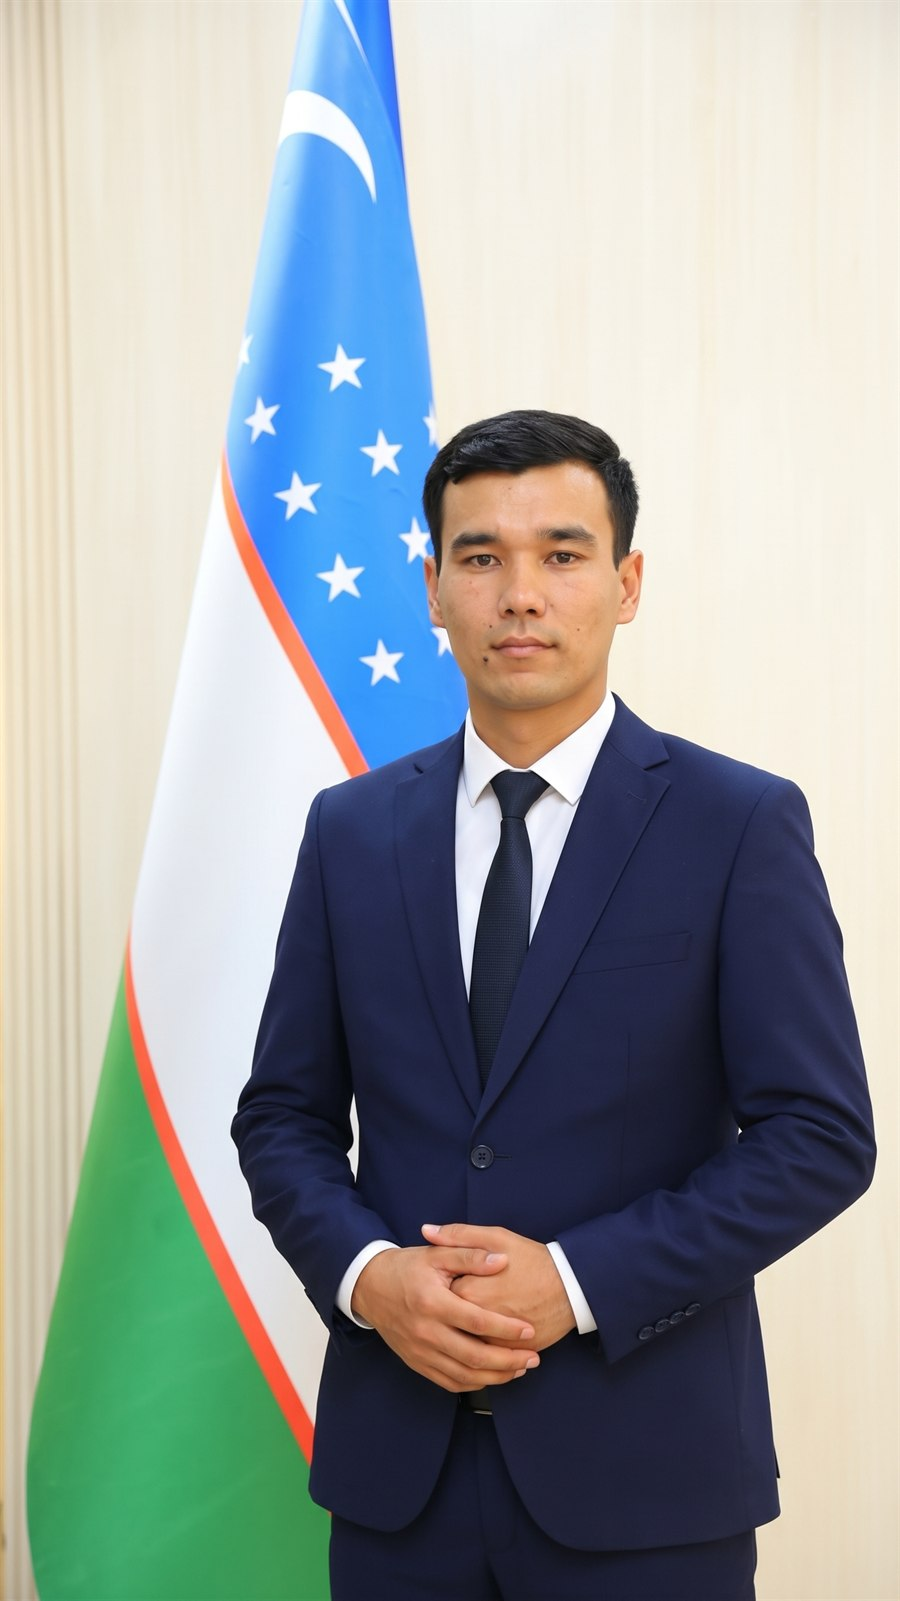
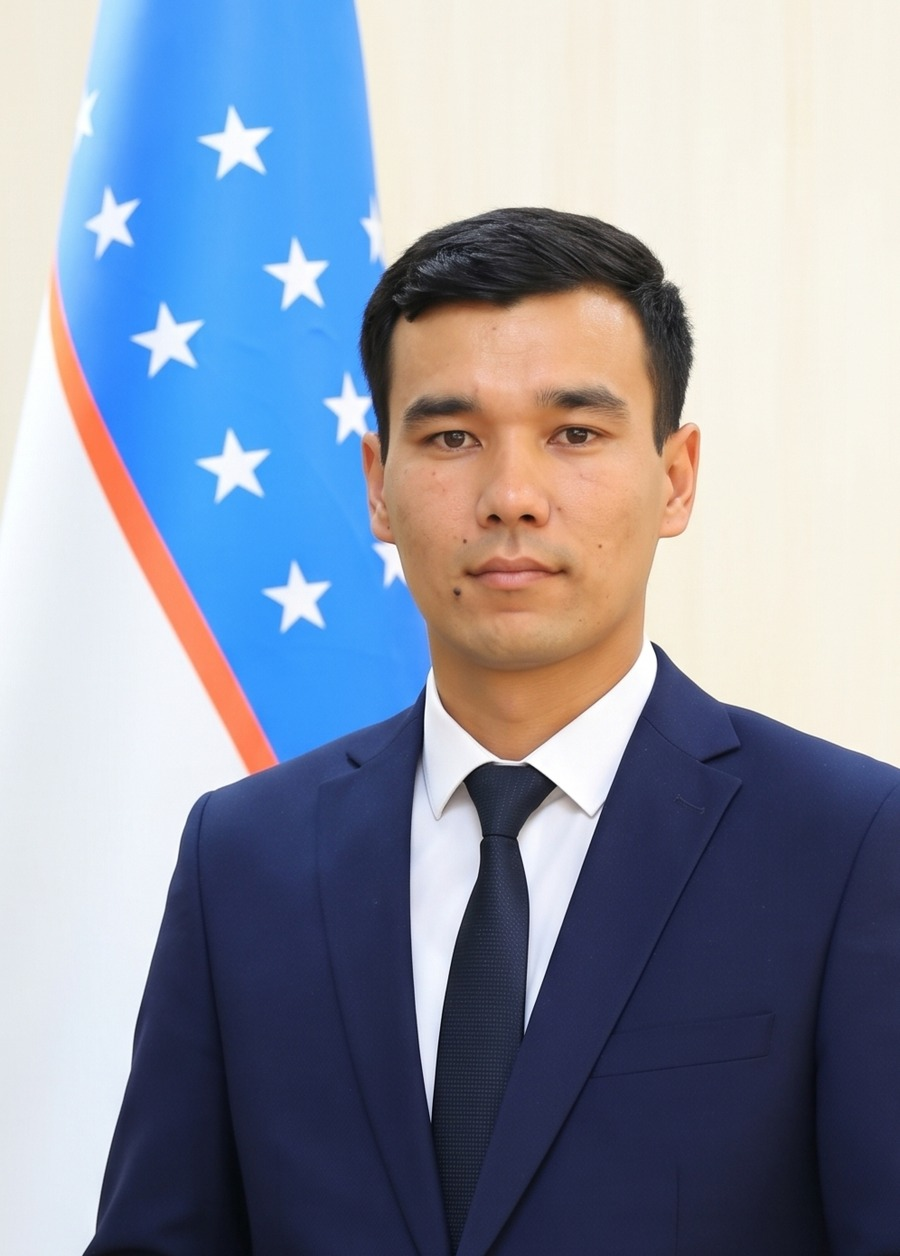
feat(team): add Fizika-matematika coordinator, zoom Akbar photo, center last row cards, and update Telegram channel handle to @UrDU_YI

diff --git a/src/components/sections/TeamSection.jsx b/src/components/sections/TeamSection.jsx
@@ -107,7 +107,7 @@ function LeaderFeaturedCard({ member }) {
                 <div className="min-w-0">
                   <span className="text-[10px] text-zinc-400 font-semibold block">Telegram</span>
                   <span className="font-semibold truncate block">
-                    {member.telegramHandle || '@UrDU_Yoshlari_BT'}
+                    {member.telegramHandle || '@UrDU_YI'}
                   </span>
                 </div>
               </a>
@@ -155,21 +155,42 @@ function LeaderFeaturedCard({ member }) {
   )
 }
 
-function getLoneCardClass(index, total) {
-  if (index !== total - 1) return ''
-  const isAloneLg = total % 3 === 1
-  const isAloneMd = total % 2 === 1
+function getCardPlacementClass(index, total) {
+  const isLast = index === total - 1
+  const isSecondToLast = index === total - 2
+  const remainder3 = total % 3
+  const remainder2 = total % 2
 
-  if (isAloneLg && isAloneMd) {
-    return 'md:col-span-2 md:max-w-md md:w-full md:mx-auto lg:col-span-1 lg:col-start-2 lg:max-w-none lg:mx-0'
+  // Default for 3-column desktop layout (6-column grid where each item spans 2)
+  let classes = 'col-span-1 md:col-span-1 lg:col-span-2'
+
+  // When only 1 card is in the last row on lg screens
+  if (remainder3 === 1 && isLast) {
+    if (remainder2 === 1) {
+      return 'col-span-1 md:col-span-2 md:max-w-md md:w-full md:mx-auto lg:col-start-3 lg:col-span-2 lg:max-w-none lg:mx-0'
+    }
+    return 'col-span-1 md:col-span-1 lg:col-start-3 lg:col-span-2'
   }
-  if (isAloneLg) {
-    return 'lg:col-start-2'
+
+  // When 2 cards are in the last row on lg screens (center both cards side-by-side!)
+  if (remainder3 === 2) {
+    if (isSecondToLast) {
+      return 'col-span-1 md:col-span-1 lg:col-start-2 lg:col-span-2'
+    }
+    if (isLast) {
+      if (remainder2 === 1) {
+        return 'col-span-1 md:col-span-2 md:max-w-md md:w-full md:mx-auto lg:col-start-4 lg:col-span-2 lg:max-w-none lg:mx-0'
+      }
+      return 'col-span-1 md:col-span-1 lg:col-start-4 lg:col-span-2'
+    }
   }
-  if (isAloneMd) {
-    return 'md:col-span-2 md:max-w-md md:w-full md:mx-auto lg:col-span-1 lg:max-w-none lg:mx-0'
+
+  // If last row has full 3 cards on lg, but is alone on md
+  if (remainder2 === 1 && isLast) {
+    return 'col-span-1 md:col-span-2 md:max-w-md md:w-full md:mx-auto lg:col-span-2 lg:max-w-none lg:mx-0'
   }
-  return ''
+
+  return classes
 }
 
 function MemberCard({ member, className = '' }) {
@@ -251,7 +272,7 @@ function MemberCard({ member, className = '' }) {
                 <span className="font-semibold">Telegram:</span>
               </span>
               <span className="text-zinc-500 group-hover:text-zinc-800 dark:text-zinc-400 dark:group-hover:text-zinc-200">
-                {member.telegramHandle || '@UrDU_Yoshlari_BT'}
+                {member.telegramHandle || '@UrDU_YI'}
               </span>
             </a>
           ) : null}
@@ -401,12 +422,12 @@ export default function TeamSection() {
               </div>
             </div>
 
-            <div className="grid grid-cols-1 gap-8 md:grid-cols-2 lg:grid-cols-3">
+            <div className="grid grid-cols-1 gap-8 md:grid-cols-2 lg:grid-cols-6">
               {koordinatorMembers.map((member, index) => (
                 <MemberCard
                   key={member.id}
                   member={member}
-                  className={getLoneCardClass(index, koordinatorMembers.length)}
+                  className={getCardPlacementClass(index, koordinatorMembers.length)}
                 />
               ))}
             </div>
@@ -430,12 +451,12 @@ export default function TeamSection() {
               </div>
             </div>
 
-            <div className="grid grid-cols-1 gap-8 md:grid-cols-2 lg:grid-cols-3">
+            <div className="grid grid-cols-1 gap-8 md:grid-cols-2 lg:grid-cols-6">
               {fakultetKoordinatorMembers.map((member, index) => (
                 <MemberCard
                   key={member.id}
                   member={member}
-                  className={getLoneCardClass(index, fakultetKoordinatorMembers.length)}
+                  className={getCardPlacementClass(index, fakultetKoordinatorMembers.length)}
                 />
               ))}
             </div>

diff --git a/src/data/siteData.js b/src/data/siteData.js
@@ -33,8 +33,8 @@ export const profile = {
   phoneHref: 'tel:+998622246700',
   instagramHandle: '@urdumatbuotxizmati',
   instagramUrl: 'https://instagram.com/urdumatbuotxizmati',
-  telegramHandle: '@UrDU_Yoshlari_BT',
-  telegramChannel: 'https://t.me/UrDU_Yoshlari_BT',
+  telegramHandle: '@UrDU_YI',
+  telegramChannel: 'https://t.me/UrDU_YI',
   telegramBot: 'https://t.me/urdu_ittifoq_bot',
   telegramBotHandle: '@urdu_ittifoq_bot',
   website: 'https://ittifoq.ursu.uz',
@@ -231,6 +231,22 @@ export const fakultetKoordinatorMembers = [
     phone: '+998958581806',
     phoneLabel: '+998 (95) 858-18-06',
     skills: ["Kitobxonlik", "Adabiyot", "Ijodiy loyihalar"],
+  },
+  {
+    id: 'fizika-matematika-fakultet',
+    name: 'Saparboyev Javohir',
+    role: "Fizika-matematika fakulteti koordinatori",
+    category: 'fakultet',
+    faculty: "Fizika-matematika fakulteti",
+    badge: 'Fakultet Koordinatori',
+    bio: "Fakultet talaba-yoshlarining fundamental fanlar, fizika, matematika, IT-modellashtirish hamda ilmiy-innovatsion tashabbuslarini muvofiqlashtirish va qo‘llab-quvvatlash.",
+    avatar: '/assets/team/javohir_portrait.jpg',
+    email: 'javoxirsaparboyev730@gmail.com',
+    telegram: 'https://t.me/javohir_saparboyev',
+    telegramHandle: '@javohir_saparboyev',
+    phone: '+998997194466',
+    phoneLabel: '+998 (99) 719-44-66',
+    skills: ["Fizika va matematika", "Ilmiy izlanishlar", "Yoshlar tashabbuslari"],
   },
   {
     id: 'intellektual-ilmlar-fakultet',
@@ -708,15 +724,15 @@ export const footerColumns = [
       { label: 'Urganch sh., H.Olimjon 14', href: 'https://yandex.uz/maps/-/CTDQBJZj' },
       { label: 'Tel: +998 (62) 224-67-00', href: 'tel:+998622246700' },
       { label: 'Email: ittifoqurdu@gmail.com', href: 'https://mail.google.com/mail/?view=cm&fs=1&to=ittifoqurdu@gmail.com' },
-      { label: 'Telegram Kanal: @UrDU_Yoshlari_BT', href: 'https://t.me/UrDU_Yoshlari_BT' },
+      { label: 'Telegram Kanal: @UrDU_YI', href: 'https://t.me/UrDU_YI' },
       { label: 'Telegram Bot: @urdu_ittifoq_bot', href: 'https://t.me/urdu_ittifoq_bot' },
     ],
   },
 ]
 
 export const socialLinks = {
-  telegram: 'https://t.me/UrDU_Yoshlari_BT',
-  telegramHandle: '@UrDU_Yoshlari_BT',
+  telegram: 'https://t.me/UrDU_YI',
+  telegramHandle: '@UrDU_YI',
   telegramBot: 'https://t.me/urdu_ittifoq_bot',
   telegramBotHandle: '@urdu_ittifoq_bot',
   instagram: 'https://instagram.com/urdumatbuotxizmati',

diff --git a/src/components/sections/DirectionsSection.jsx b/src/components/sections/DirectionsSection.jsx
@@ -50,7 +50,7 @@ export default function DirectionsSection() {
           </p>
           <div className="mt-6">
             <a
-              href={socialLinks.telegram || 'https://t.me/UrDU_Yoshlari_BT'}
+              href={socialLinks.telegram || 'https://t.me/UrDU_YI'}
               target="_blank"
               rel="noopener noreferrer"
               className="inline-flex items-center gap-2 rounded-full bg-emerald-500 px-6 py-2.5 text-xs font-bold text-zinc-950 hover:bg-emerald-400 transition"

diff --git a/index.html b/index.html
@@ -95,7 +95,7 @@
               "addressCountry": "UZ"
             },
             "sameAs": [
-              "https://t.me/UrDU_Yoshlari_BT",
+              "https://t.me/UrDU_YI",
               "https://www.instagram.com/urdumatbuotxizmati/",
               "https://www.youtube.com/channel/UCkQ8N0jtKR9VigB0FALuFvA/videos",
               "https://t.me/urdu_ittifoq_bot"
